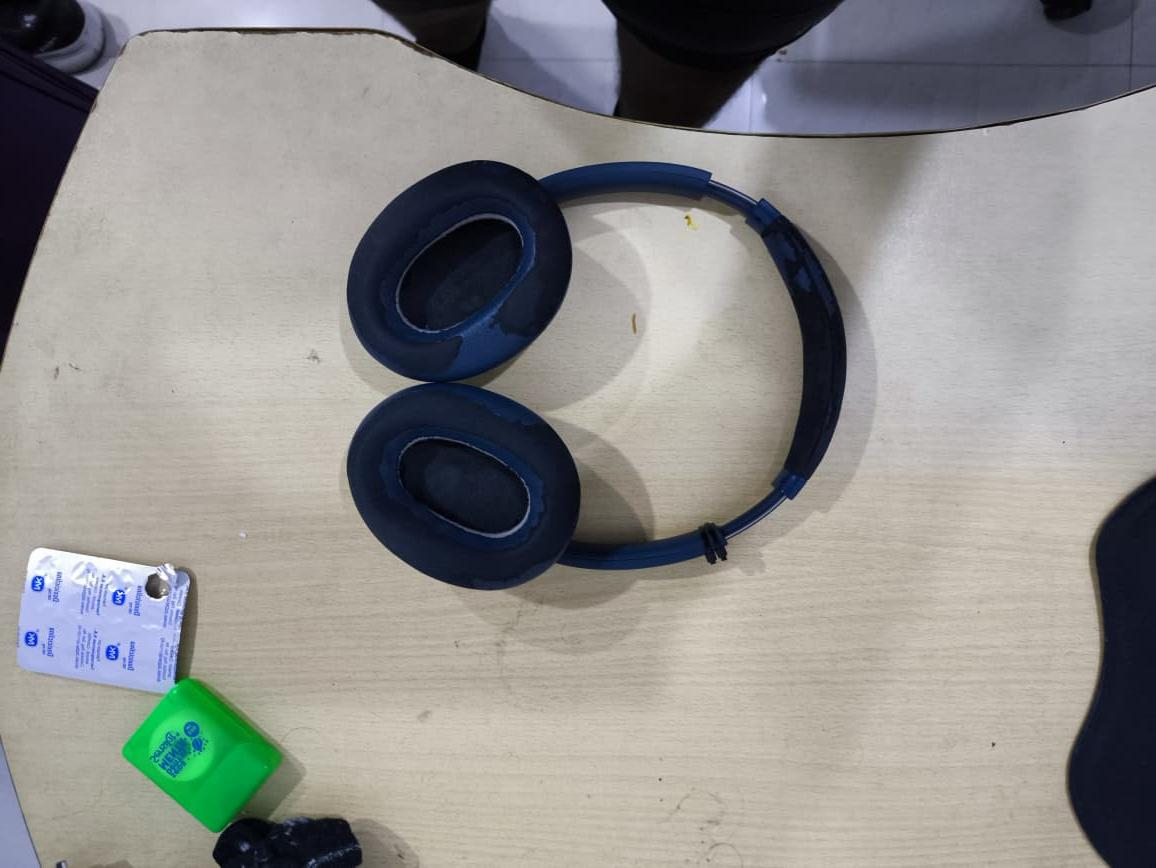
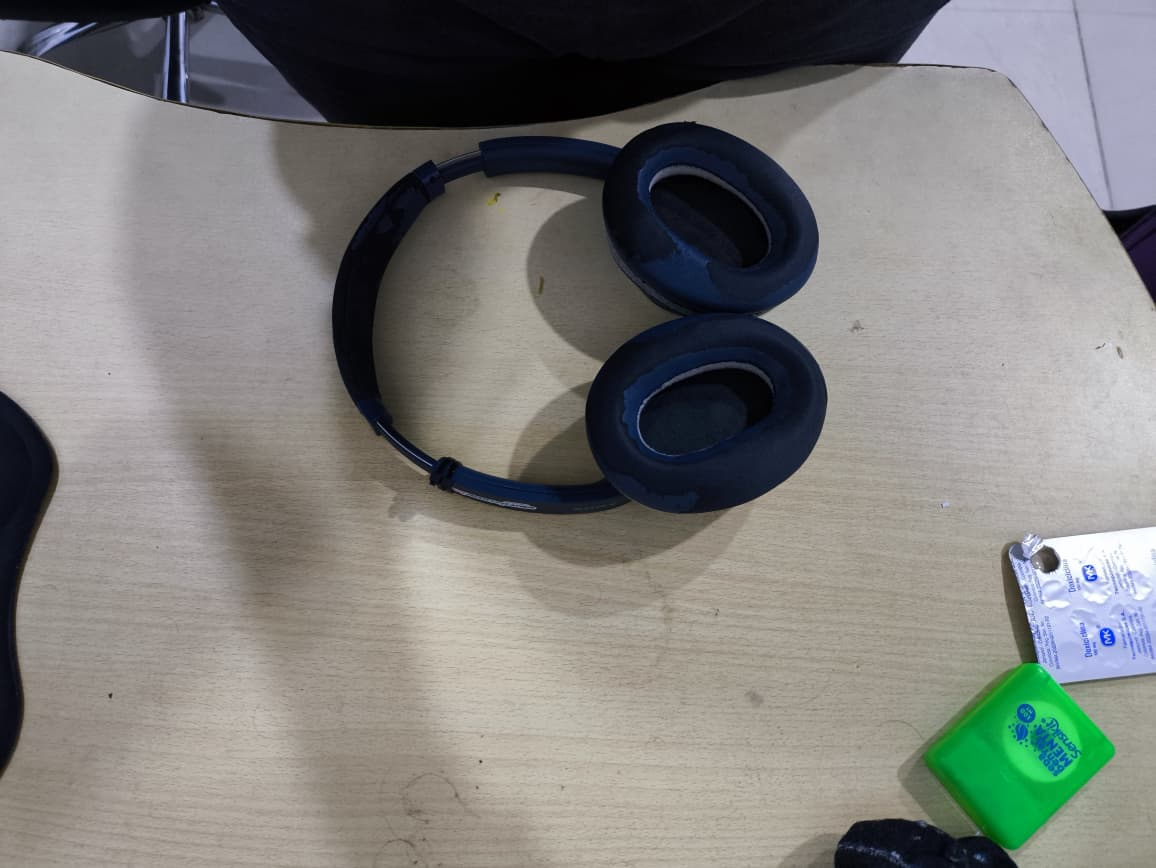
updated pipeline.py

diff --git a/tools/pipeline_scripts/pipeline.py b/tools/pipeline_scripts/pipeline.py
@@ -59,7 +59,7 @@ import numpy as np
 
 # ─── Paths ────────────────────────────────────────────────────────────────────
 
-PROJECT_ROOT = Path(__file__).parent.parent.resolve()
+PROJECT_ROOT = Path(__file__).parent.parent.parent.resolve()
 DA3_CLI      = Path("/home/worker-node-4/Documents/GitHub/UniWhere/.venv/bin/da3")
 MODELS_NUMCC = Path.home() / "models" / "numcc"
 MODELS_SAM2  = Path.home() / "models" / "sam2"
